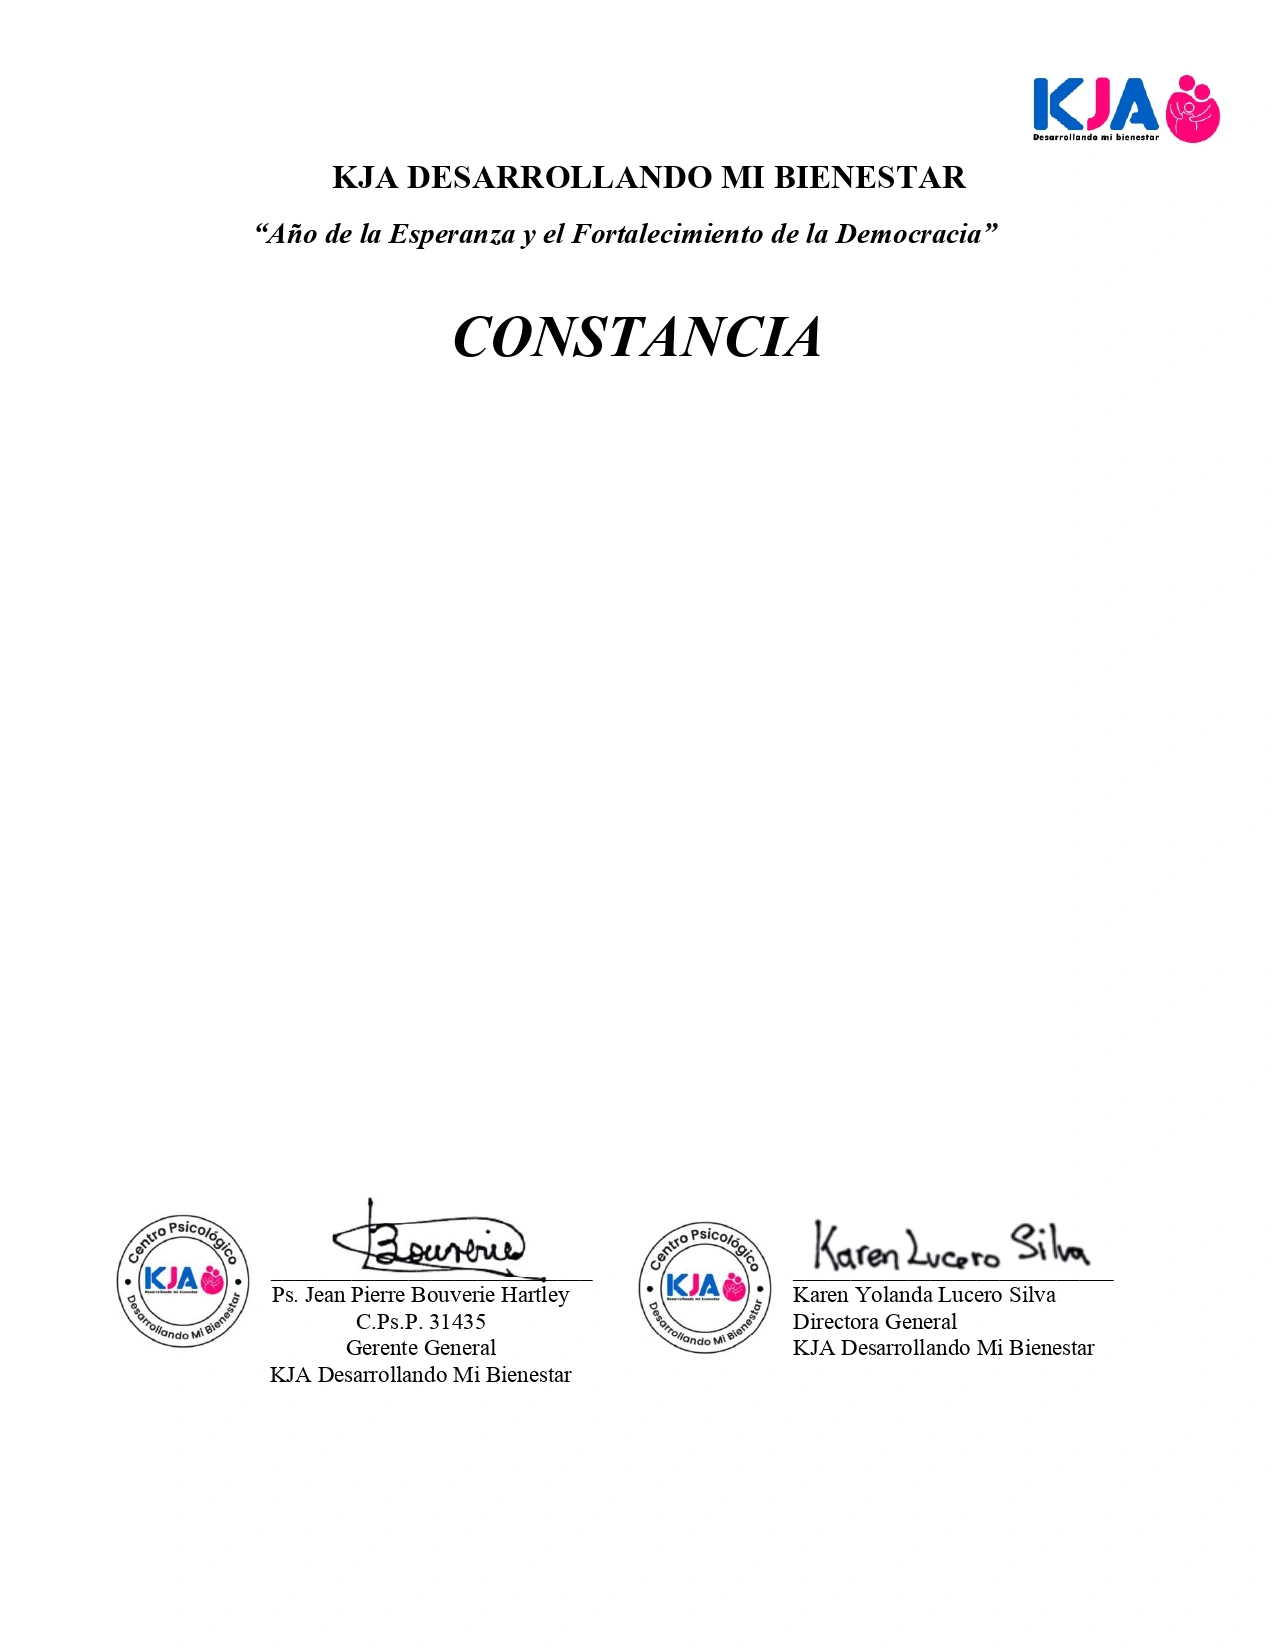
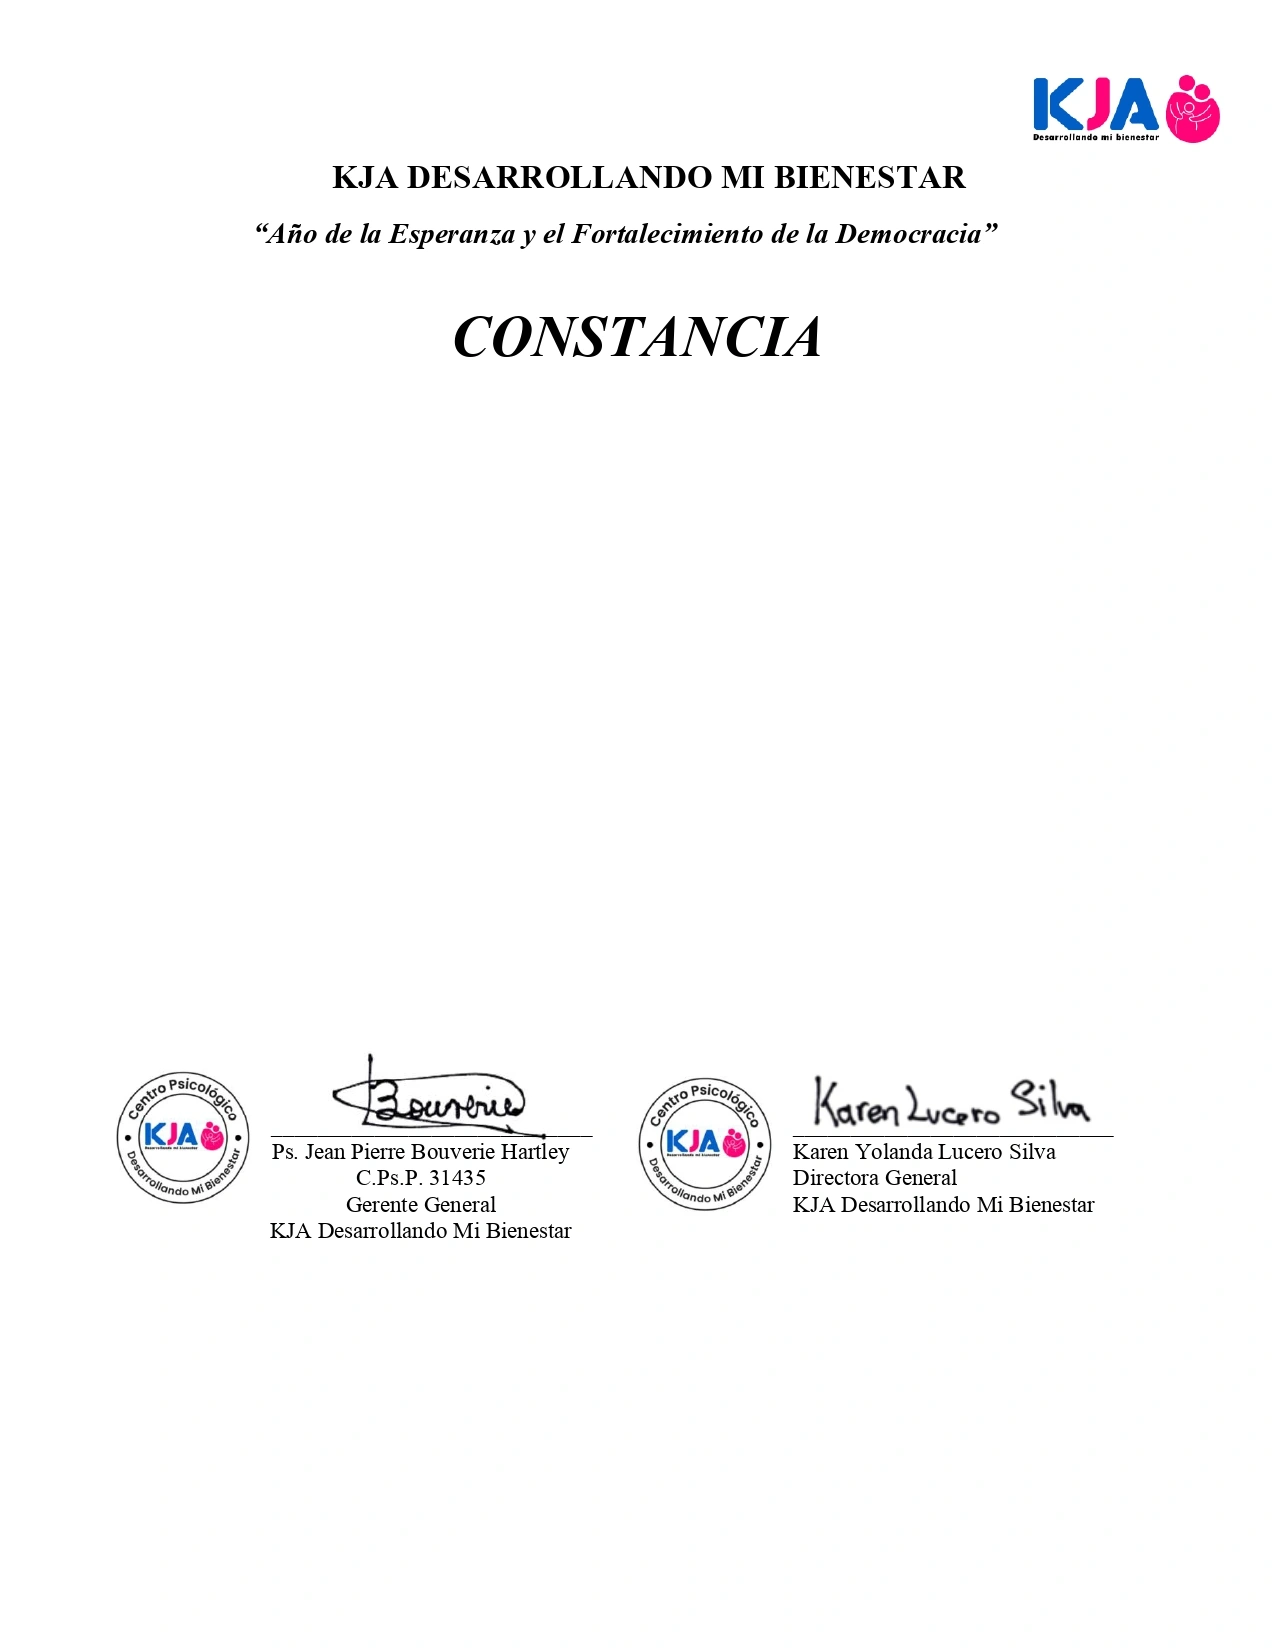
feat(certificados): horas, plantilla nueva y constancia para el expositor
Plantilla actualizada. Es la misma medida, pero el bloque de firmas subio de
y=1197 a y=1053, asi que el hueco para el texto pasa de 840 a 696 px. Se sube
tambien el ?v= de la plantilla: cert-render no versiona los .webp solo, y sin
eso el navegador seguiria mostrando la anterior.

Horas. El campo de duracion vuelve a mostrarse para la constancia y el texto
dice "con una duracion de N horas academicas" despues de las fechas. Si no se
ponen horas, la frase no aparece.

A quien va dirigida. En Configuracion se elige entre el asistente o el
expositor (el interno que la dicto). Para el expositor cambia el primer
parrafo: deja de decir "el estudiante" y pasa a "participo en calidad de
expositor en X, realizado en nuestra institucion". Ademas se esconde lo de
listar expositores, que no tiene sentido en una constancia que ya habla de
quien expuso.

Y como ahora entra mas texto en menos espacio, el cuerpo se ajusta solo: si
no cabe entre el titulo y las firmas, se reduce hasta caber —contando la
linea de "Lima, fecha"— en vez de escribir encima de las firmas. Verificado
comparando cada render contra la plantilla desnuda para aislar lo dibujado:
con datos normales el texto llega a y=809 y con un caso deliberadamente
absurdo a y=979, ambos por encima de las firmas (y=1053).

Los cuatro tipos existentes siguen identicos byte a byte.

Changed region(s): [[0.4894, 0.6491, 0.8565, 0.8345], [0.0918, 0.6491, 0.4282, 0.8345]]

diff --git a/certificados/cert-render.js b/certificados/cert-render.js
@@ -94,29 +94,42 @@
          firmas con sus sellos ya están dibujados en la imagen: acá solo se
          rellena el hueco libre que queda entre el título (y=357) y las
          firmas (y=1197). */
-      plantilla:'Constancia_charlas/PLANTILLA_CONSTANCIA_CHARLAS.webp?v=1',
+      plantilla:'Constancia_charlas/PLANTILLA_CONSTANCIA_CHARLAS.webp?v=2',
       etiqueta:'Constancia de charlas',
       etiquetaTitulo:'Proceso realizado (ej. evaluación psicológica)',
       campos:'documento', fechas:'rango',
       lienzo:{w:1275, h:1650},
-      cuerpo:{x:150, topY:455, maxW:975, size:23, lh:35, color:'#000000', align:'justify', espacio:20, font:TIMES},
+      /* maxY = donde arranca el bloque de firmas en la plantilla (y=1053). */
+      cuerpo:{x:150, topY:440, maxW:975, size:23, lh:35, color:'#000000', align:'justify', espacio:20, font:TIMES, maxY:1030},
       emision:{x:150, maxW:975, size:23, color:'#000000', weight:700, align:'left', font:TIMES},
       codigo:{cx:637, cy:1592, size:15, color:'#666666', weight:500, align:'center'},
       qr:{left:1090, top:1420, size:105},
       parrafos:(d)=>{
         const x = d.datos || {};
+        const proc = x.proceso || d.titulo || '';
+        /* La constancia se emite a quien asistió o a quien expuso: cambia a
+           quién describe el primer párrafo y en qué calidad participó. */
+        const paraExpositor = x.dirigido === 'expositor';
+
         const p1 = [{t:'El Centro Psicológico '},{t:'KJA – Desarrollando Mi Bienestar',b:1},
-                    {t:' deja constancia de que el estudiante '},{t:d.nombre||'',b:1}];
+                    {t: paraExpositor ? ' deja constancia de que ' : ' deja constancia de que el estudiante '},
+                    {t:d.nombre||'',b:1}];
         if(x.dni||d.dni) p1.push({t:', identificado con DNI N.° '},{t:String(x.dni||d.dni),b:1});
         if(x.edad)       p1.push({t:', de '},{t:String(x.edad),b:1},{t:' años de edad'});
         if(x.grado)      p1.push({t:', cursante del '},{t:x.grado,b:1});
         if(x.colegio)    p1.push({t:' en la Institución Educativa '},{t:x.colegio,b:1});
         if(x.turno)      p1.push({t:', turno '},{t:x.turno,b:1});
         if(x.domicilio)  p1.push({t:', con domicilio en '},{t:x.domicilio,b:1});
-        // Sin proceso la frase quedaba como "un proceso de en nuestra institución"
-        const proc = x.proceso || d.titulo || '';
-        if(proc) p1.push({t:', ha participado en un proceso de '},{t:proc,b:1},{t:' en nuestra institución.'});
-        else     p1.push({t:', ha participado en un proceso en nuestra institución.'});
+
+        if(paraExpositor){
+          if(proc) p1.push({t:', participó en calidad de expositor en '},{t:proc,b:1},
+                           {t:', realizado en nuestra institución.'});
+          else     p1.push({t:', participó en calidad de expositor en una actividad realizada en nuestra institución.'});
+        } else {
+          // Sin proceso la frase quedaba como "un proceso de en nuestra institución"
+          if(proc) p1.push({t:', ha participado en un proceso de '},{t:proc,b:1},{t:' en nuestra institución.'});
+          else     p1.push({t:', ha participado en un proceso en nuestra institución.'});
+        }
 
         /* Quién lo organizó: a solicitud de un tercero, o el propio centro. */
         const p2 = x.porKja
@@ -132,10 +145,11 @@
         // "fue realizado ... realizado el día" repetía; "llevándose a cabo"
         // hace juego con el "iniciándose" del caso de varios días.
         else       p2.push({t:', llevándose a cabo el día '},{t:d.fInicio||'',b:1});
+        if(d.duracion) p2.push({t:', con una duración de '},{t:String(d.duracion)+' horas académicas',b:1});
         p2.push({t:', habiendo cumplido con las sesiones programadas correspondientes.'});
 
         /* Expositores, si se indicaron. Se listan en castellano: "A, B y C". */
-        const exp = (x.expositores||'').split(',').map(s=>s.trim()).filter(Boolean);
+        const exp = paraExpositor ? [] : (x.expositores||'').split(',').map(s=>s.trim()).filter(Boolean);
         if(exp.length){
           const lista = exp.length>1 ? exp.slice(0,-1).join(', ')+' y '+exp[exp.length-1] : exp[0];
           p2.push({t:' Estuvo a cargo de '},{t:lista,b:1},{t:'.'});
@@ -226,6 +240,7 @@
     }
     const lh=size*ratio;
     const alto=(r.lineas.length-1)*lh;   // lo que ocupa, para apilar párrafos debajo
+    if(c.medir) return {lineas:r.lineas.length, lh, alto};   // solo medir, sin pintar
     ctx.fillStyle=c.color; ctx.textBaseline='middle'; ctx.textAlign='left';
     r.lineas.forEach((ln,i)=>{
       const y=c.topY+i*lh; const last=i===r.lineas.length-1;
@@ -247,12 +262,31 @@
      No son certificados decorados sino cartas: varios párrafos justificados,
      uno debajo del otro, con negritas en línea. Se apilan reusando el mismo
      dibujarParrafo, avanzando la Y con lo que cada uno ocupó. */
-  function dibujarDocumento(ctx, parrafos, c){
+  function altoDocumento(ctx, parrafos, c){
     let y=c.topY;
     for(const runs of parrafos){
       if(!runs || !runs.length) continue;
-      const r=dibujarParrafo(ctx, runs, {...c, topY:y});
+      const r=dibujarParrafo(ctx, runs, {...c, topY:y, medir:true});
       y += r.alto + r.lh + (c.espacio||0);
+    }
+    return y;
+  }
+  /* El hueco entre el título y las firmas es fijo, pero el texto no: depende
+     de cuántos datos traiga. Si no cabe, se reduce el cuerpo hasta que quepa
+     —incluida la línea de "Lima, fecha"— en vez de escribir sobre las firmas. */
+  function dibujarDocumento(ctx, parrafos, c){
+    let cfg={...c};
+    if(c.maxY){
+      const reserva=(c.espacio||0)+(c.lh||c.size*1.4);   // el sitio de "Lima, fecha"
+      while(cfg.size>13 && altoDocumento(ctx, parrafos, cfg)+reserva > c.maxY){
+        cfg={...cfg, size:cfg.size-1, lh:Math.round((cfg.lh||cfg.size*1.4)*(cfg.size-1)/cfg.size)};
+      }
+    }
+    let y=cfg.topY;
+    for(const runs of parrafos){
+      if(!runs || !runs.length) continue;
+      const r=dibujarParrafo(ctx, runs, {...cfg, topY:y});
+      y += r.alto + r.lh + (cfg.espacio||0);
     }
     return y;
   }

diff --git a/admin.html b/admin.html
@@ -18,7 +18,7 @@
 <script src="https://cdn.jsdelivr.net/npm/flatpickr"></script>
 <script src="https://cdn.jsdelivr.net/npm/flatpickr/dist/l10n/es.js"></script>
 <script src="https://cdn.jsdelivr.net/npm/chart.js"></script>
-<script src="certificados/cert-render.js?v=7"></script>
+<script src="certificados/cert-render.js?v=8"></script>
 
 <link rel="stylesheet" href="assets/css/accessibility.css">
 <link rel="stylesheet" href="assets/css/paginas/admin.css?v=41">
@@ -219,6 +219,11 @@
                   <div data-val="constancia_charlas">Constancia de Charlas</div>
                 </div>
               </div>
+            </div>
+            <div class="field" id="wrap-dirigido" style="display:none;margin-bottom:0;">
+              <label>¿A quién va dirigida?</label>
+              <label class="chk-temario"><input type="radio" name="dirigido" value="asistente" checked> Al asistente</label>
+              <label class="chk-temario"><input type="radio" name="dirigido" value="expositor"> Al expositor (el interno que la dictó)</label>
             </div>
           </div>
 
@@ -849,15 +854,21 @@ function esDocumento(tipo){ const t=KJACert.TIPOS[tipo]; return !!(t && t.campos
 /* El lema del ano y el titulo van dentro de la plantilla, por eso no se piden aca. */
 const CAMPOS_DOC=['edad','turno','grado','colegio','domicilio','solicitante','lugar','expositores'];
 function docActivo(){ return $('f-doc-on').checked; }
+function dirigidoA(){ const r=document.querySelector('input[name="dirigido"]:checked'); return r?r.value:'asistente'; }
 function leerDatosDoc(){
-  if(!docActivo()) return null;      // apagado: el documento sale sin esos datos
   const o={};
+  // "dirigida al expositor" vale aunque el bloque de datos esté apagado
+  if(dirigidoA()==='expositor') o.dirigido='expositor';
+  if(!docActivo()) return Object.keys(o).length ? o : null;
   CAMPOS_DOC.forEach(k=>{ const v=($('f-doc-'+k).value||'').trim(); if(v) o[k]=v; });
   if(o.edad) o.edad=parseInt(o.edad,10);
   /* Lo organizó el propio centro: entonces no hay a quién atribuirle la
      solicitud, así que ese dato se descarta para que no queden los dos. */
   if($('f-doc-porkja').checked){ o.porKja=true; delete o.solicitante; }
   if(!$('f-doc-exp-on').checked) delete o.expositores;
+  /* Al expositor no se le listan expositores ni se le describen los datos de
+     escolaridad: la constancia habla de él, no del taller al que asistió. */
+  if(dirigidoA()==='expositor'){ o.dirigido='expositor'; delete o.expositores; }
   return Object.keys(o).length ? o : null;
 }
 function pintarDatosDoc(datos){
@@ -868,13 +879,17 @@ function pintarDatosDoc(datos){
   $('doc-builder').style.display = $('f-doc-on').checked ? 'block' : 'none';
   $('f-doc-porkja').checked = !!o.porKja;
   $('f-doc-exp-on').checked = !!o.expositores;
+  const rad=document.querySelector(`input[name="dirigido"][value="${o.dirigido||'asistente'}"]`);
+  if(rad) rad.checked=true;
   sincronizarDoc();
 }
 
 /* Muestra u oculta lo que depende de las casillas del documento */
 function sincronizarDoc(){
+  const paraExp = dirigidoA()==='expositor';
   $('wrap-solicitante').style.display = $('f-doc-porkja').checked ? 'none' : 'block';
-  $('wrap-expositores').style.display = $('f-doc-exp-on').checked ? 'block' : 'none';
+  $('f-doc-exp-on').closest('label').style.display = paraExp ? 'none' : 'flex';
+  $('wrap-expositores').style.display = (!paraExp && $('f-doc-exp-on').checked) ? 'block' : 'none';
 }
 function actualizarUI(){ const d=leerDatos(),cfg=d.cfg;
   $('lbl-titulo').textContent=cfg.etiquetaTitulo;
@@ -890,7 +905,8 @@ function actualizarUI(){ const d=leerDatos(),cfg=d.cfg;
   const doc=esDocumento(d.tipo);
   $('doc-group').style.display = doc ? 'block' : 'none';
   if(doc) $('doc-builder').style.display = $('f-doc-on').checked ? 'block' : 'none';
-  $('wrap-duracion').style.display = doc ? 'none' : 'block';
+  $('wrap-duracion').style.display = 'block';   // las horas también aplican a la constancia
+  $('wrap-dirigido').style.display = doc ? 'block' : 'none';
   $('font-cselect').closest('.field').style.display = doc ? 'none' : 'block';
   $('size-wrap').closest('.row2').style.display = doc ? 'none' : 'flex';
   const aplica=temarioAplica();                 // el temario solo aplica a Curso / Especialización
@@ -980,6 +996,7 @@ function resetForm(){
   pintarDatosDoc(null);
   $('f-doc-on').checked=true; $('doc-builder').style.display='block';
   $('f-doc-varios').checked=false; $('f-doc-porkja').checked=false; $('f-doc-exp-on').checked=false;
+  const rad0=document.querySelector('input[name="dirigido"][value="asistente"]'); if(rad0) rad0.checked=true;
   sincronizarDoc();
   $('f-extranjero').checked=false; actualizarDniUI();
   resetTemario();
@@ -1251,6 +1268,8 @@ $('f-doc-on').addEventListener('change',()=>{
 ['f-doc-porkja','f-doc-exp-on'].forEach(id=>
   $(id).addEventListener('change',()=>{ sincronizarDoc(); dibujar(); }));
 $('f-doc-varios').addEventListener('change',dibujar);
+document.querySelectorAll('input[name="dirigido"]').forEach(r=>
+  r.addEventListener('change',()=>{ sincronizarDoc(); dibujar(); }));
 
 /* ───── Validación de DNI (8 dígitos; extranjero: 8–15) ───── */
 function dniMax(){ return $('f-extranjero').checked ? 15 : 8; }

diff --git a/certificado.html b/certificado.html
@@ -31,7 +31,7 @@
 <script src="https://cdn.jsdelivr.net/npm/qrious@4.0.2/dist/qrious.min.js"></script>
 <script src="https://cdnjs.cloudflare.com/ajax/libs/jspdf/2.5.1/jspdf.umd.min.js"></script>
 <script src="https://cdn.jsdelivr.net/npm/@supabase/supabase-js@2"></script>
-<script src="certificados/cert-render.js?v=7"></script>
+<script src="certificados/cert-render.js?v=8"></script>
 
 <link rel="stylesheet" href="assets/css/paginas/certificado.css?v=2">
 <!-- Sin JS, el splash de carga no debe tapar la página -->
